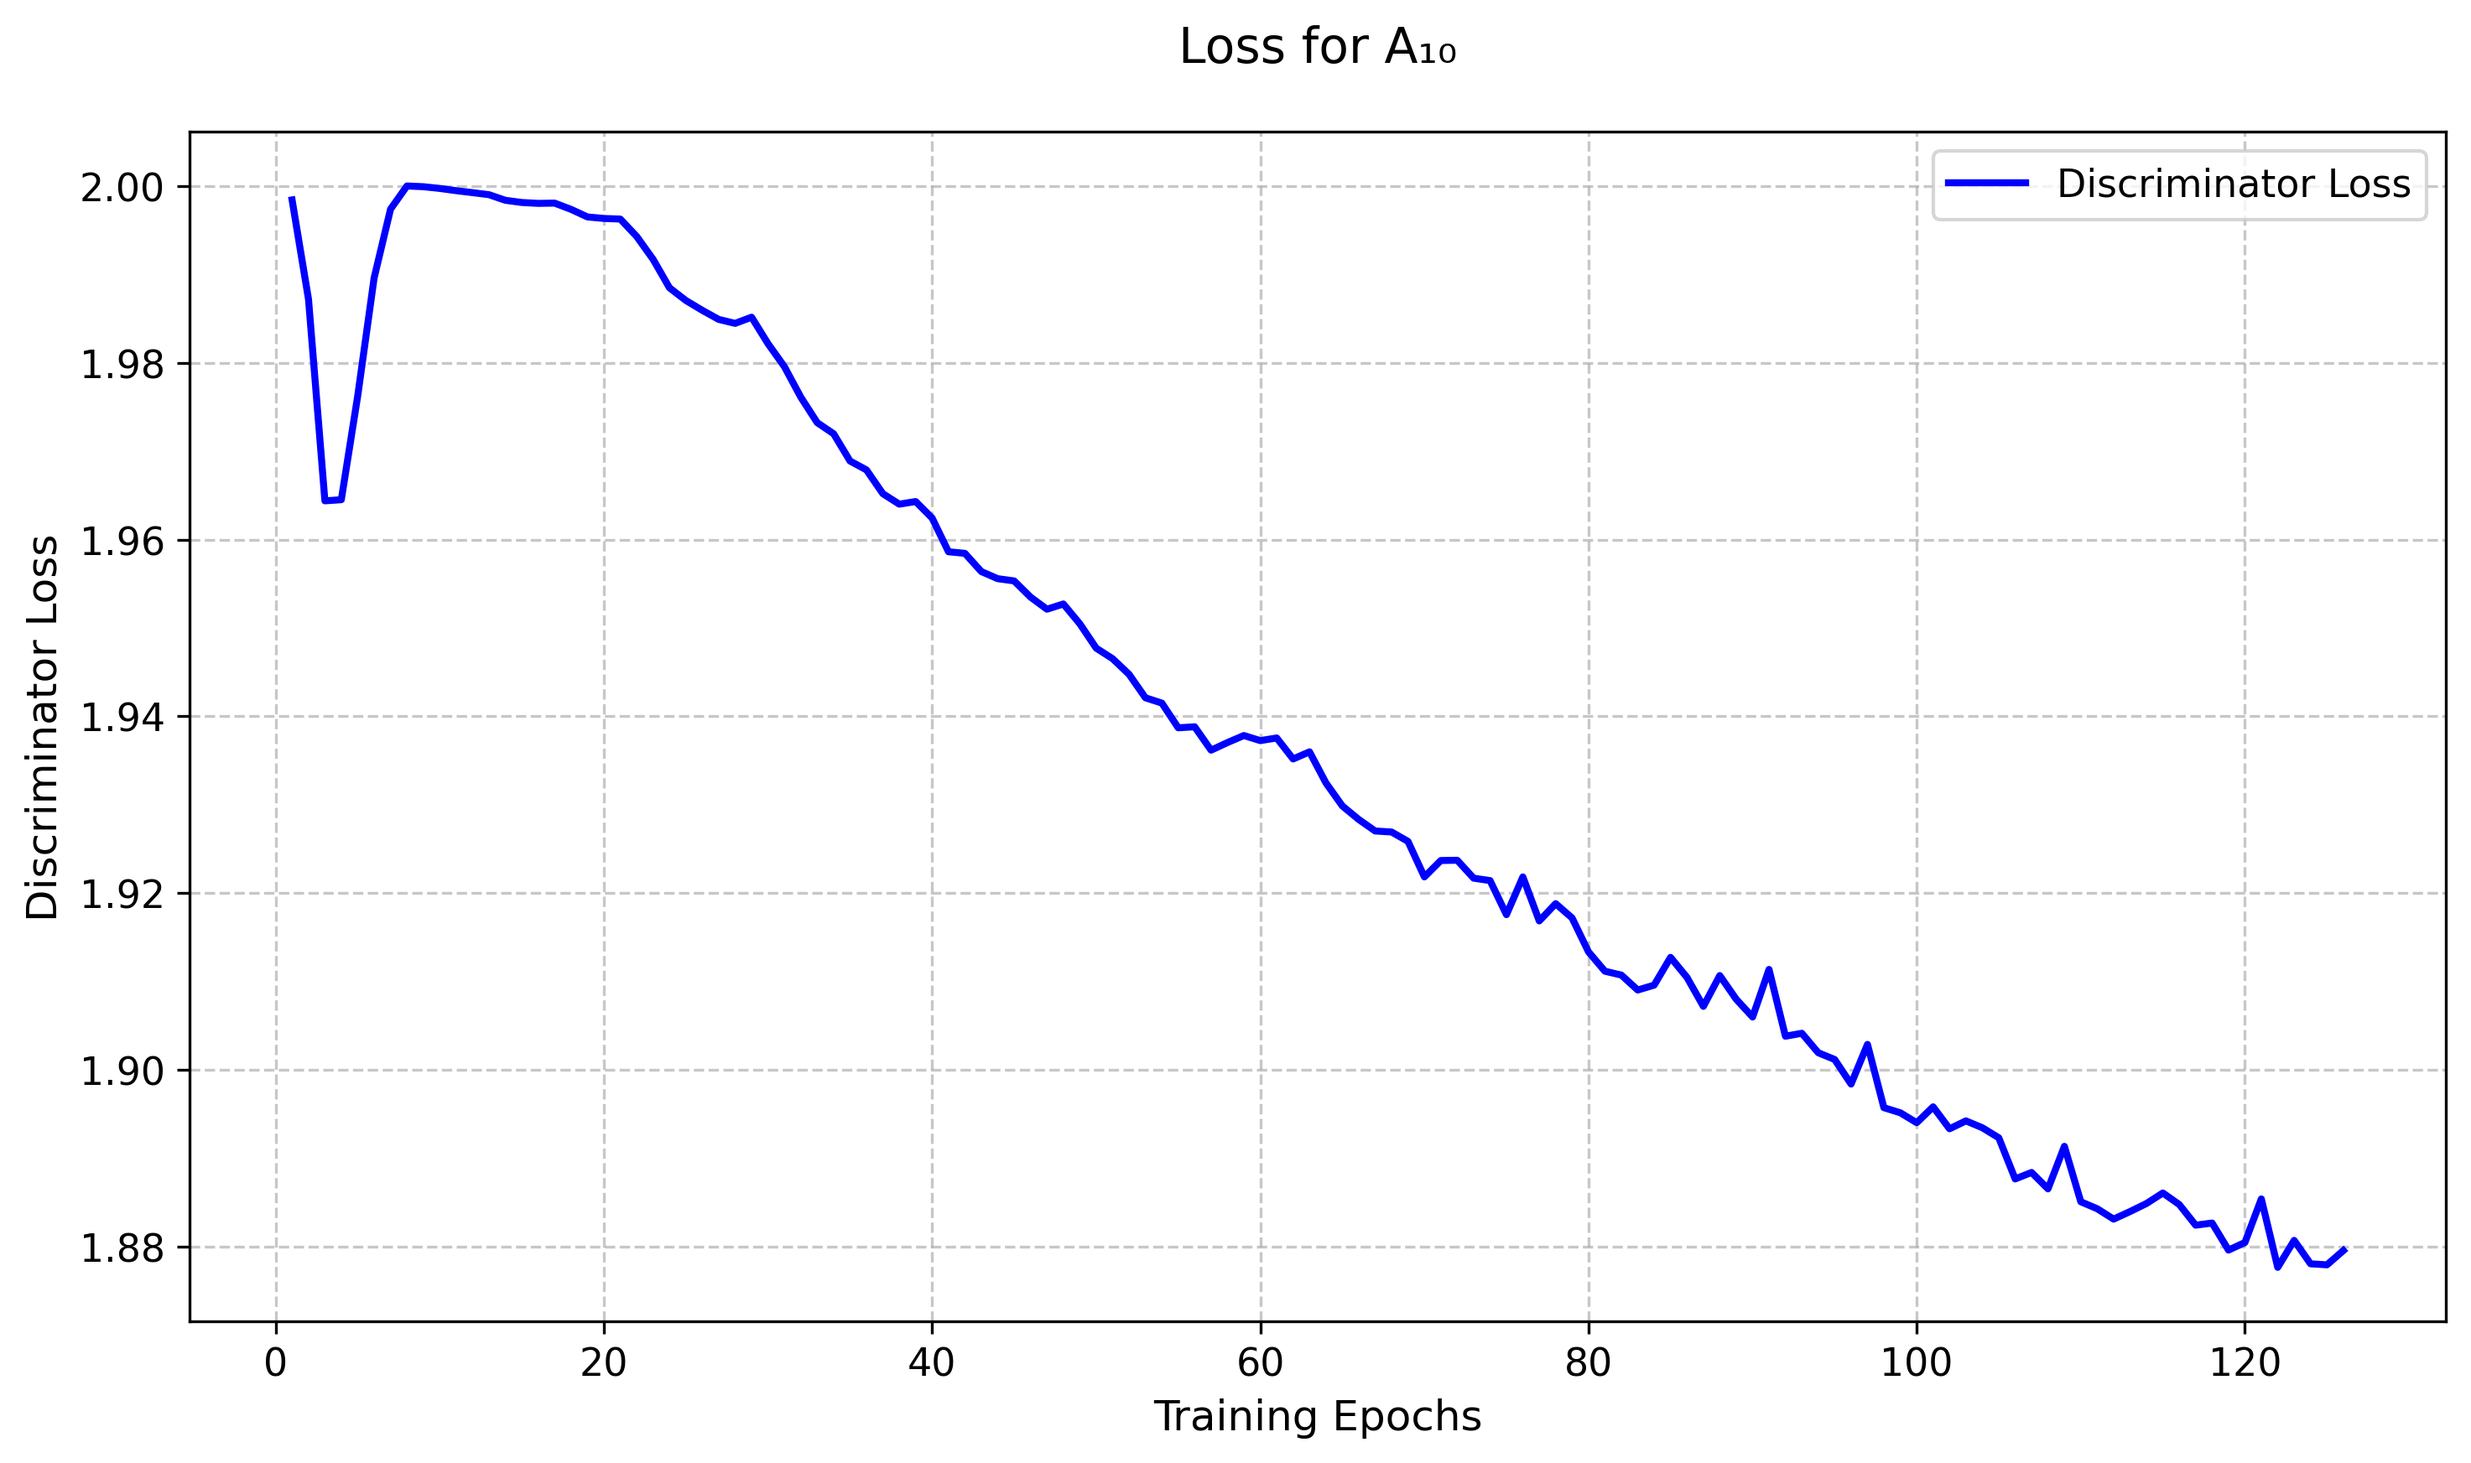
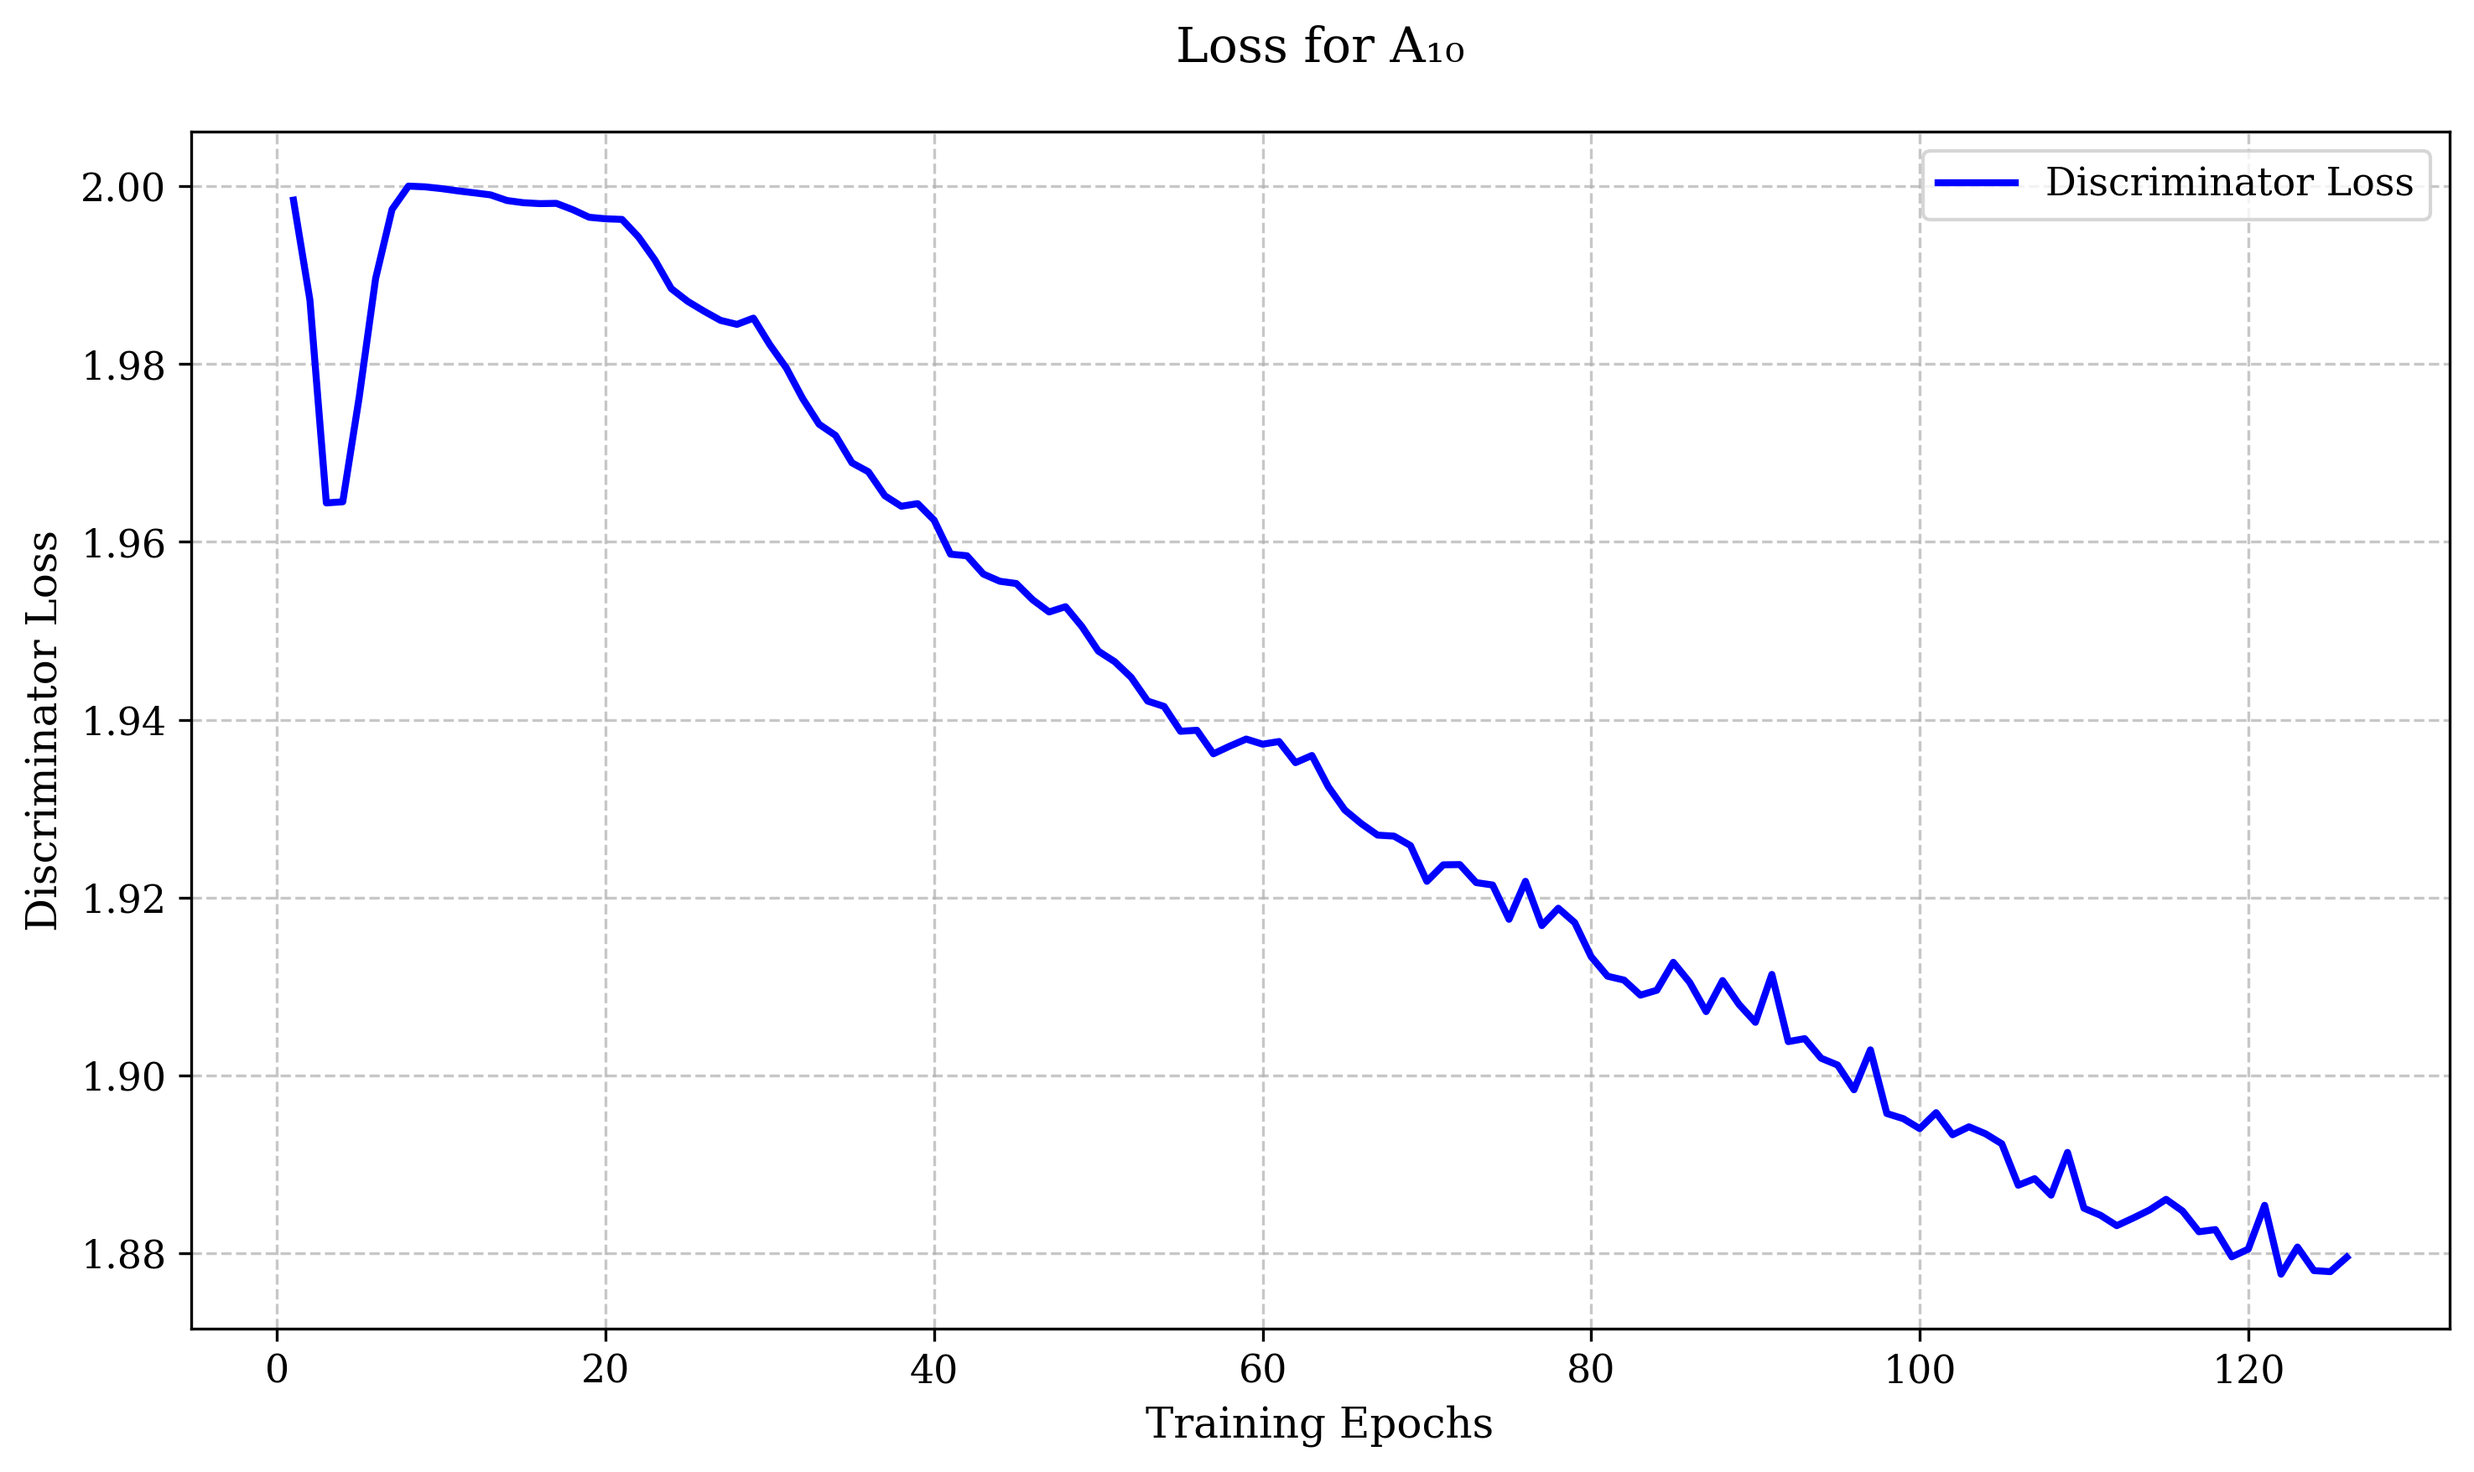
added batch training analysis

diff --git a/utils/analyze_batch_train.py b/utils/analyze_batch_train.py
@@ -1,0 +1,196 @@
+import json
+import argparse
+import matplotlib.pyplot as plt
+import os
+import matplotlib as mpl
+from pathlib import Path
+from typing import List, Dict, Any, Tuple, Optional
+
+# Font settings to match save_spectrograms
+BIGGER_SIZE = 10
+SMALLER_SIZE = 8
+
+plt.rc('font', size=BIGGER_SIZE, family='serif')  # controls default text sizes
+plt.rcParams['font.family'] = 'DeJavu Serif'
+plt.rcParams['font.serif'] = ['Times New Roman']
+
+plt.rc('axes', titlesize=BIGGER_SIZE)
+plt.rc('axes', labelsize=BIGGER_SIZE)
+plt.rc('xtick', labelsize=BIGGER_SIZE)
+plt.rc('ytick', labelsize=SMALLER_SIZE)
+plt.rc('legend', fontsize=BIGGER_SIZE)
+plt.rc('figure', titlesize=BIGGER_SIZE)
+
+# Set a better figure DPI for higher quality output
+mpl.rcParams['figure.dpi'] = 300
+mpl.rcParams['savefig.dpi'] = 300
+
+def parse_arguments():
+    parser = argparse.ArgumentParser(description='Plot training metrics from multiple JSON history files')
+    parser.add_argument('json_paths', type=str, nargs='+', 
+                      help='Paths to the JSON history files')
+    parser.add_argument('metric', type=str, 
+                      help='Metric to track (e.g., "d_loss", "g_loss", "pesq")')
+    parser.add_argument('--output', '-o', type=str, default=None,
+                      help='Output directory path for the plot. Default: "outputs"')
+    parser.add_argument('--name', '-n', type=str, default=None,
+                      help='Custom name for the output file (without extension)')
+    parser.add_argument('--title', type=str, default=None,
+                      help='Custom plot title')
+    parser.add_argument('--xlabel', type=str, default='Epochs',
+                      help='Label for the x-axis. Default: "Epochs"')
+    parser.add_argument('--ylabel', type=str, default=None,
+                      help='Label for the y-axis')
+    parser.add_argument('--legend', type=str, nargs='+', default=None,
+                      help='Custom legend labels (one per input file)')
+    parser.add_argument('--font-size', type=int, default=12,
+                      help='Base font size for the plot. Default: 12')
+    parser.add_argument('--line-styles', type=str, nargs='+', default=['-', '--', '-.'],
+                      help='Line styles for different runs')
+    parser.add_argument('--colors', type=str, nargs='+', 
+                      default=['#1f77b4', '#ff7f0e', '#2ca02c', '#d62728', '#9467bd'],
+                      help='Colors for different runs')
+    return parser.parse_args()
+
+def load_history(json_path: str) -> List[Dict[str, Any]]:
+    with open(json_path, 'r') as f:
+        return json.load(f)
+
+def ensure_dir(directory: str) -> None:
+    """Ensure that the specified directory exists, create it if it doesn't."""
+    Path(directory).mkdir(parents=True, exist_ok=True)
+
+def plot_metrics(
+    histories: List[Dict[str, Any]], 
+    labels: List[str],
+    metric: str,
+    output_dir: str = "outputs",
+    output_name: Optional[str] = None,
+    title: Optional[str] = None,
+    xlabel: str = 'Epochs',
+    ylabel: Optional[str] = None,
+    font_size: int = 12,
+    line_styles: Optional[List[str]] = None,
+    colors: Optional[List[str]] = None
+) -> None:
+    """Plot the same metric from multiple training runs on the same axes."""
+    # Set up the figure
+    plt.figure(figsize=(10, 6), dpi=100)
+    
+    # Set font sizes
+    plt.rc('font', size=font_size)
+    plt.rc('axes', titlesize=font_size, labelsize=font_size)
+    plt.rc('xtick', labelsize=font_size-1)
+    plt.rc('ytick', labelsize=font_size-2)
+    plt.rc('legend', fontsize=font_size-1)
+    
+    # Default line styles and colors if not provided
+    line_styles = line_styles or ['-', '--', '-.', ':']
+    colors = colors or ['#1f77b4', '#ff7f0e', '#2ca02c', '#d62728', '#9467bd']
+    
+    # Plot each history
+    for i, (history, label) in enumerate(zip(histories, labels)):
+        train_metrics = []
+        val_metrics = []
+        
+        for epoch in history:
+            # Get training metric if it exists
+            if 'train' in epoch and metric in epoch['train']:
+                train_metrics.append(epoch['train'][metric])
+            
+            # Get validation metric if it exists
+            if 'valid' in epoch and metric in epoch['valid']:
+                val_metrics.append(epoch['valid'].get(metric, None))
+        
+        if not train_metrics:
+            print(f"Warning: Metric '{metric}' not found in training data for {label}")
+            continue
+        
+        epochs = range(1, len(train_metrics) + 1)
+        line_style = line_styles[i % len(line_styles)]
+        color = colors[i % len(colors)]
+        
+        # Plot training data
+        plt.plot(epochs, train_metrics, 
+                linestyle=line_style, 
+                color=color,
+                linewidth=2,
+                label=f"{label}")
+        
+        # Plot validation data if available
+        if val_metrics and any(v is not None for v in val_metrics):
+            plt.plot(epochs[:len(val_metrics)], 
+                    [v for v in val_metrics if v is not None],
+                    linestyle=line_style,
+                    color=color,
+                    linewidth=2,
+                    alpha=0.7,
+                    label=f"{label} (Val)")
+    
+    # Format title with Unicode subscript for A_{100}
+    title_text = title or f'Training and Validation {metric}'
+    title_text = title_text.replace('$A_{100}$', 'A₁₀₀')
+    
+    plt.title(title_text, fontsize=font_size+2, pad=20)
+    plt.xlabel(xlabel, fontsize=font_size)
+    plt.ylabel(ylabel or metric, fontsize=font_size)
+    
+    # Customize grid and legend
+    plt.grid(True, linestyle='--', alpha=0.6)
+    plt.legend(frameon=True, facecolor='white', framealpha=0.8)
+    
+    # Adjust layout
+    plt.tight_layout()
+    
+    # Ensure output directory exists
+    ensure_dir(output_dir)
+    
+    # Create output filename
+    filename = f"{output_name}.png" if output_name else f"combined_{metric}.png"
+    output_path = os.path.join(output_dir, filename)
+    
+    # Save the plot
+    plt.savefig(output_path, bbox_inches='tight', dpi=300)
+    plt.close()
+    print(f"Plot saved to: {os.path.abspath(output_path)}")
+
+def main():
+    args = parse_arguments()
+    
+    try:
+        # Load all histories
+        histories = [load_history(path) for path in args.json_paths]
+        
+        # Generate default labels if not provided
+        if args.legend and len(args.legend) == len(args.json_paths):
+            labels = args.legend
+        else:
+            labels = [f"Run {i+1}" for i in range(len(args.json_paths))]
+        
+        # Set output directory
+        output_dir = args.output if args.output else "outputs"
+        
+        # Generate the combined plot
+        plot_metrics(
+            histories=histories,
+            labels=labels,
+            metric=args.metric,
+            output_dir=output_dir,
+            output_name=args.name,
+            title=args.title,
+            xlabel=args.xlabel,
+            ylabel=args.ylabel,
+            font_size=args.font_size,
+            line_styles=args.line_styles,
+            colors=args.colors
+        )
+        
+    except FileNotFoundError as e:
+        print(f"Error: File not found: {e}")
+    except json.JSONDecodeError:
+        print(f"Error: One or more files are not valid JSON")
+    except Exception as e:
+        print(f"An error occurred: {str(e)}")
+
+if __name__ == "__main__":
+    main()

diff --git a/utils/analyze_train.py b/utils/analyze_train.py
@@ -5,18 +5,20 @@ import os
 import matplotlib as mpl
 from pathlib import Path
 
-# Simple font settings without LaTeX
-plt.rcParams.update({
-    'font.family': 'sans-serif',
-    'font.sans-serif': ['DejaVu Sans', 'Arial', 'Helvetica', 'sans-serif'],
-    'font.size': 10,
-    'axes.titlesize': 12,
-    'axes.labelsize': 10,
-    'xtick.labelsize': 9,
-    'ytick.labelsize': 9,
-    'legend.fontsize': 10,
-    'figure.titlesize': 12
-})
+# Font settings to match save_spectrograms
+BIGGER_SIZE = 10
+SMALLER_SIZE = 8
+
+plt.rc('font', size=BIGGER_SIZE, family='serif')  # controls default text sizes
+plt.rcParams['font.family'] = 'DeJavu Serif'
+plt.rcParams['font.serif'] = ['Times New Roman']
+
+plt.rc('axes', titlesize=BIGGER_SIZE)  # fontsize of the axes title
+plt.rc('axes', labelsize=BIGGER_SIZE)  # fontsize of the x and y labels
+plt.rc('xtick', labelsize=BIGGER_SIZE)  # fontsize of the tick labels
+plt.rc('ytick', labelsize=SMALLER_SIZE)  # fontsize of the tick labels
+plt.rc('legend', fontsize=BIGGER_SIZE)  # legend fontsize
+plt.rc('figure', titlesize=BIGGER_SIZE)
 
 # Set a better figure DPI for higher quality output
 mpl.rcParams['figure.dpi'] = 300

diff --git a/README.md b/README.md
@@ -119,18 +119,18 @@ The `utils/dataset.py` script provides utilities for working with the Gigaspeech
 python utils/dataset.py
 ```
 
-### Generating Plots from Training History
+### Training Visualization Tools
 
-The `analyze_train.py` script helps visualize training metrics from the training history JSON file. It supports customizing the plot appearance and saving the output.
+#### 1. Single Run Analysis (`analyze_train.py`)
 
-#### Basic Usage
+Visualize metrics from a single training run.
 
+**Basic Usage:**
 ```bash
 python utils/analyze_train.py <history_json> <metric_name> [options]
 ```
 
-#### Example: Plotting Discriminator Loss
-
+**Example: Plotting Discriminator Loss**
 ```bash
 python utils/analyze_train.py dora/xps/a7a7d341/history.json d_loss \
     --output output \
@@ -138,18 +138,53 @@ python utils/analyze_train.py dora/xps/a7a7d341/history.json d_loss \
     --title "Loss for A₁₀₀" \
     --xlabel "Training Epochs" \
     --ylabel "Discriminator Loss" \
-    --legend "Discriminator Loss"
+    --font-size 14
 ```
 
-#### Available Options
-
+**Available Options:**
 - `--output`: Output directory (default: 'outputs')
 - `--name`: Output filename (without extension)
-- `--title`: Plot title
-- `--xlabel`: X-axis label
+- `--title`: Plot title (supports Unicode subscripts, e.g., A₁₀₀)
+- `--xlabel`: X-axis label (default: 'Epochs')
 - `--ylabel`: Y-axis label (defaults to metric name)
 - `--legend`: Legend labels (provide two space-separated values for train/val)
 - `--font-size`: Base font size (default: 12)
+
+#### 2. Multi-Run Comparison (`analyze_batch_train.py`)
+
+Compare the same metric across multiple training runs in a single plot.
+
+**Basic Usage:**
+```bash
+python utils/analyze_batch_train.py <history_json1> <history_json2> ... <metric_name> [options]
+```
+
+**Example: Comparing Discriminator Loss**
+```bash
+python utils/analyze_batch_train.py \
+    dora/xps/6a28e352/history.json \
+    dora/xps/a7a7d341/history.json \
+    dora/xps/0427d672/history.json \
+    d_loss \
+    --output output \
+    --name combined_d_loss \
+    --title "Discriminator Loss" \
+    --xlabel "Training Epochs" \
+    --ylabel "Loss" \
+    --legend "A₁₀" "A₁₀₀" "A₅₀₀₀" \
+    --font-size 14 \
+    --line-styles - - -
+```
+
+**Additional Options:**
+- `--line-styles`: Line styles for each run (e.g., `- -- -` for solid, dashed, dash-dot)
+- `--colors`: Custom colors for each run (hex codes)
+- Other options same as `analyze_train.py`
+
+**Notes:**
+- Use Unicode subscripts (e.g., A₁₀, A₁₀₀) for clean formatting in titles and legends
+- Default font is DeJavu Serif with Times New Roman fallback
+- Output is saved as high-resolution PNG (300 DPI)
 
 #### Notes
 
